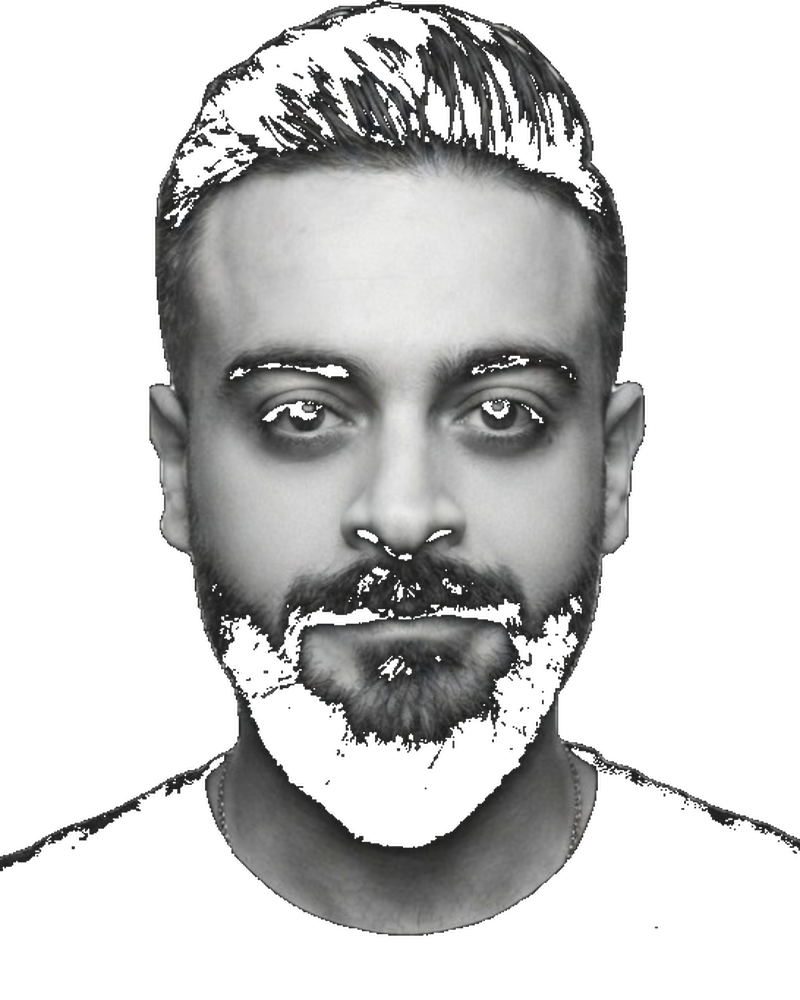
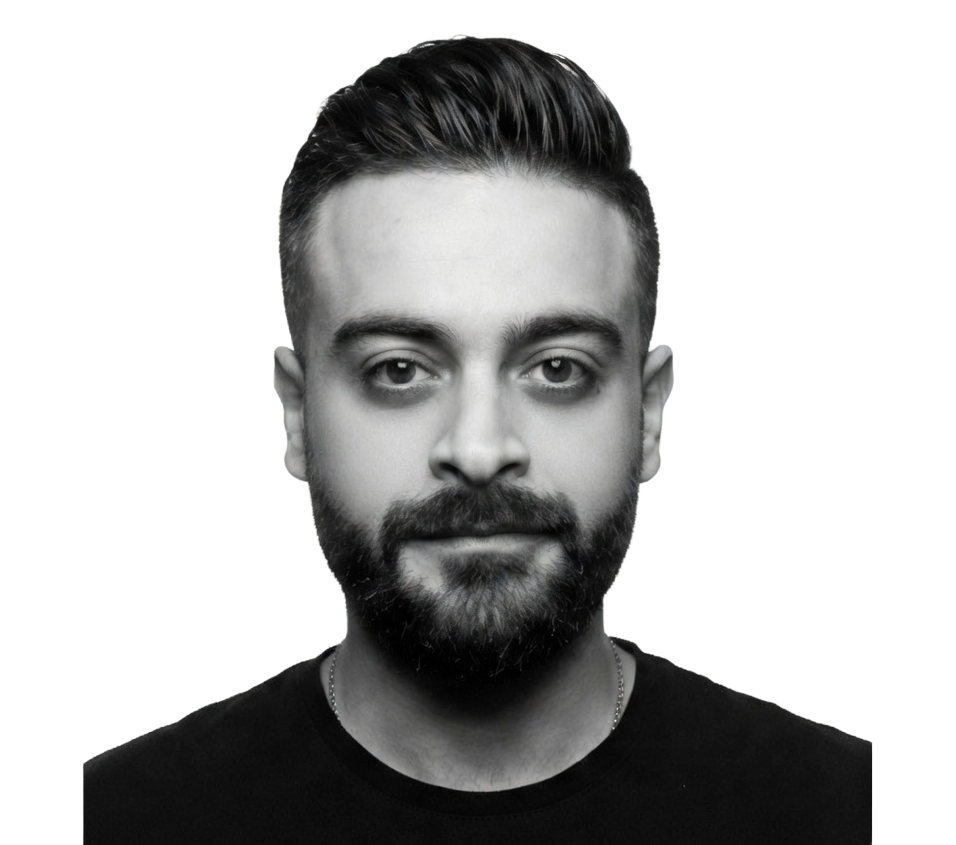
adding play video

diff --git a/static-web/src/lib/styles/portfolio.css b/static-web/src/lib/styles/portfolio.css
@@ -2,6 +2,7 @@
 
 .hero {
 	position: relative;
+	min-height: 100vh;
 	min-height: 100svh;
 	padding: 80px var(--edge) 0;
 	padding-bottom: 24px;
@@ -10,6 +11,7 @@
 .masthead {
 	position: relative;
 	z-index: 2;
+	pointer-events: none;
 	padding-top: 30px;
 	font-weight: 300;
 	line-height: 0.82;
@@ -43,31 +45,65 @@
 
 .portrait {
 	position: relative;
-	z-index: 1;
+	z-index: 0;
 	width: 100%;
 	max-width: 400px;
-	aspect-ratio: 4 / 5;
 	margin: 32px auto 0;
 	overflow: hidden;
 	clip-path: inset(0 0 100% 0);
 	animation: unveil 1.1s var(--ease-out) 0.35s forwards;
 	background: transparent;
-	isolation: isolate;
 	border: none;
+	aspect-ratio: 4 / 5;
+	cursor: pointer;
 
-	& img {
+	& img,
+	& video {
+		position: absolute;
+		inset: 0;
 		width: 100%;
 		height: 100%;
 		object-fit: cover;
 		object-position: center center;
 		display: block;
-		filter: contrast(1.04);
+		pointer-events: none;
+	}
+
+	& video {
+		display: none;
+	}
+
+	&.is-playing {
+		clip-path: inset(0 0 0 0);
+		animation: none;
+		background: var(--paper);
+		cursor: default;
+
+		& img {
+			display: none;
+		}
+
+		& video {
+			display: block;
+		}
 	}
 }
 
 @keyframes unveil {
 	to {
 		clip-path: inset(0 0 0 0);
+	}
+}
+
+@supports not (aspect-ratio: 4 / 5) {
+	.portrait {
+		height: min(500px, 125vw);
+	}
+}
+
+@media (prefers-color-scheme: dark) {
+	.portrait {
+		background: #000000;
 	}
 }
 
@@ -316,18 +352,20 @@
 	animation: work-page-in 0.55s var(--ease-out) both;
 }
 
-.work-page:has(.proj:hover) .proj:not(:hover) {
-	opacity: 0.32;
-}
+@supports selector(:has(*)) {
+	.work-page:has(.proj:hover) .proj:not(:hover) {
+		opacity: 0.32;
+	}
 
-.work-page:has(.proj:hover) .proj:hover {
-	opacity: 1;
-	padding-left: 30px;
-}
-
-@media (max-width: 41.99rem) {
 	.work-page:has(.proj:hover) .proj:hover {
-		padding-left: 10px;
+		opacity: 1;
+		padding-left: 30px;
+	}
+
+	@media (max-width: 41.99rem) {
+		.work-page:has(.proj:hover) .proj:hover {
+			padding-left: 10px;
+		}
 	}
 }
 
@@ -582,11 +620,14 @@ form {
 /* Footer */
 
 footer {
-	padding: 40px var(--edge);
+	padding: 32px var(--edge) 40px;
 	border-top: 1px solid var(--ink);
 	display: flex;
-	flex-direction: column;
-	gap: 10px;
+	flex-direction: row;
+	justify-content: space-between;
+	align-items: center;
+	flex-wrap: nowrap;
+	gap: 14px;
 	font-family: var(--font-mono);
 	font-size: 11px;
 	letter-spacing: 0.08em;
@@ -594,16 +635,20 @@ footer {
 	color: var(--grey);
 
 	& .footer-email {
+		margin-left: auto;
+		flex-shrink: 0;
 		display: inline-block;
 		overflow: hidden;
 		line-height: 1.4;
 		height: 1.4em;
 		vertical-align: top;
+		text-align: right;
 		transition: color 0.4s ease;
 
 		& .footer-email-track {
 			display: flex;
 			flex-direction: column;
+			align-items: flex-end;
 			transition: transform 0.45s var(--ease-out);
 		}
 
@@ -619,7 +664,8 @@ footer {
 		}
 
 		&:hover .footer-email-track,
-		&:focus-visible .footer-email-track {
+		&:focus-visible .footer-email-track,
+		&:active .footer-email-track {
 			transform: translateY(-50%);
 		}
 	}
@@ -649,8 +695,10 @@ footer {
 		height: min(72vh, 680px);
 		aspect-ratio: auto;
 		margin: 0;
+		z-index: 0;
 
-		& img {
+		& img,
+		& video {
 			object-position: center 10%;
 		}
 	}
@@ -690,12 +738,8 @@ footer {
 	}
 
 	footer {
-		flex-direction: row;
-		justify-content: space-between;
-		flex-wrap: wrap;
 		padding: 44px var(--edge);
 		font-size: 12px;
-		gap: 14px;
 	}
 }
 
@@ -719,12 +763,14 @@ footer {
 		top: 96px;
 		right: var(--edge);
 		width: calc(50% - var(--edge) - 24px);
-		max-width: 640px;
-		height: min(78vh, 820px);
+		max-width: 580px;
+		height: min(78vh, 780px);
 		aspect-ratio: auto;
 		margin: 0;
+		z-index: 0;
 
-		& img {
+		& img,
+		& video {
 			object-position: center 10%;
 		}
 	}
@@ -786,10 +832,6 @@ footer {
 		}
 	}
 
-	.work-page:has(.proj:hover) .proj:hover {
-		padding-left: 30px;
-	}
-
 	.about {
 		grid-template-columns: 1.5fr 1fr;
 		gap: 80px;
@@ -830,12 +872,8 @@ footer {
 	}
 
 	footer {
-		flex-direction: row;
-		justify-content: space-between;
-		flex-wrap: wrap;
 		padding: 50px var(--edge);
 		font-size: 12px;
-		gap: 14px;
 	}
 }
 
@@ -860,7 +898,8 @@ footer {
 	}
 
 	.footer-email:hover .footer-email-track,
-	.footer-email:focus-visible .footer-email-track {
+	.footer-email:focus-visible .footer-email-track,
+	.footer-email:active .footer-email-track {
 		transform: translateY(-50%);
 	}
 

diff --git a/static-web/src/lib/components/organisms/HeroSection.svelte b/static-web/src/lib/components/organisms/HeroSection.svelte
@@ -1,7 +1,78 @@
 <script>
+	import { onDestroy } from 'svelte';
 	import SocialLinks from '$lib/components/molecules/SocialLinks.svelte';
 
+	const PORTRAIT_VIDEO = {
+		light: '/portrait-easter-egg-light.mp4',
+		dark: '/portrait-easter-egg-dark.mp4'
+	};
+
 	let { displayName, roleHtml, year, socials, meta } = $props();
+
+	let showingVideo = $state(false);
+	/** @type {HTMLVideoElement | undefined} */
+	let videoEl;
+	let clickCount = 0;
+	/** @type {ReturnType<typeof setTimeout> | undefined} */
+	let clickResetTimer;
+	/** @type {ReturnType<typeof setTimeout> | undefined} */
+	let videoStopTimer;
+
+	function portraitVideoSrc() {
+		return window.matchMedia('(prefers-color-scheme: dark)').matches
+			? PORTRAIT_VIDEO.dark
+			: PORTRAIT_VIDEO.light;
+	}
+
+	function stopVideo() {
+		if (videoStopTimer) clearTimeout(videoStopTimer);
+		videoStopTimer = undefined;
+		showingVideo = false;
+
+		if (videoEl) {
+			videoEl.pause();
+			videoEl.currentTime = 0;
+		}
+	}
+
+	async function playPortraitVideo() {
+		if (!videoEl || showingVideo) return;
+
+		videoEl.src = portraitVideoSrc();
+		videoEl.load();
+		showingVideo = true;
+		videoEl.currentTime = 0;
+
+		try {
+			await videoEl.play();
+		} catch {
+			stopVideo();
+			return;
+		}
+
+		videoStopTimer = setTimeout(stopVideo, 5000);
+	}
+
+	function handlePortraitClick() {
+		if (showingVideo) return;
+
+		clickCount += 1;
+		clearTimeout(clickResetTimer);
+		clickResetTimer = setTimeout(() => {
+			clickCount = 0;
+		}, 700);
+
+		if (clickCount >= 3) {
+			clickCount = 0;
+			clearTimeout(clickResetTimer);
+			playPortraitVideo();
+		}
+	}
+
+	onDestroy(() => {
+		clearTimeout(clickResetTimer);
+		clearTimeout(videoStopTimer);
+	});
 </script>
 
 <section class="hero" id="top">
@@ -9,8 +80,10 @@
 		<span class="line"><span>{displayName}</span></span>
 	</h1>
 
-	<figure class="portrait">
+	<!-- svelte-ignore a11y_click_events_have_key_events a11y_no_noninteractive_element_interactions -->
+	<figure class="portrait" class:is-playing={showingVideo} onclick={handlePortraitClick}>
 		<img src="/portrait.png" alt={displayName} />
+		<video bind:this={videoEl} muted playsinline preload="metadata" aria-hidden="true"></video>
 	</figure>
 
 	<section class="lede">

diff --git a/static-web/src/lib/styles/styleguide.css b/static-web/src/lib/styles/styleguide.css
@@ -74,7 +74,7 @@
 	:root {
 		color-scheme: dark;
 		--ink: #f3f1ec;
-		--paper: #111010;
+		--paper: #000000;
 		--grey: #9c9890;
 		--line: #2c2b2a;
 		--text-muted: #c4c0b8;
@@ -84,7 +84,8 @@
 		--grey-700: #c4c0b8;
 		--grey-500: #9c9890;
 		--grey-300: #2c2b2a;
-		--grey-100: #1a1918;
+		--grey-100: #111010;
+		--menu-overlay-bg: #000000;
 		--menu-overlay-text: #f3f1ec;
 	}
 }